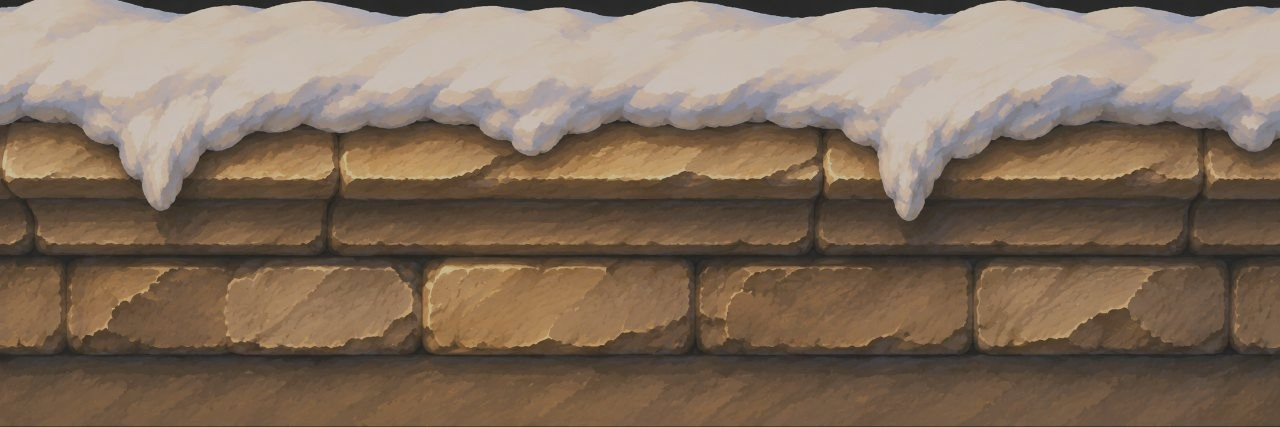
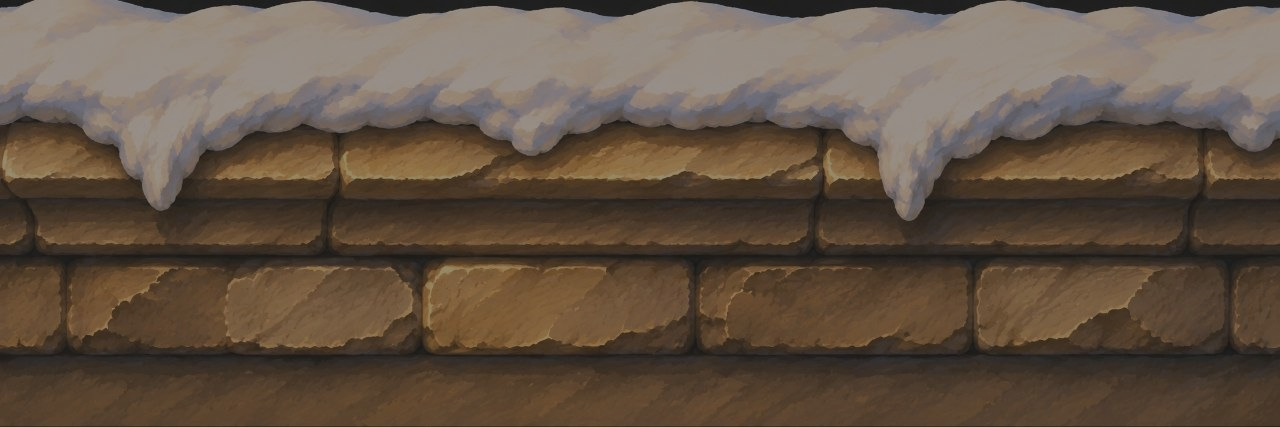
fix(material): 台地墙/台阶接入手绘图集——材质切换提前到 UV 重投影之前，并在 Apply 后盖深色实例，黑条消失

diff --git a/spike/project/Assets/Editor/MaterialForge.cs b/spike/project/Assets/Editor/MaterialForge.cs
@@ -295,7 +295,6 @@ public static class MaterialForge
         }
         var indoor=church.GetComponent<ChurchInterior>();
         ApplyRollout(indoor);
-        Style11Atlas.Apply(indoor);
         // Style11Atlas 只认它认识的材质族；台地墙（Stone_Sub_Coping / Stone_Sub_Steps）没被认出来，
         // 于是仍走世界投影着色（_Style11UV=0）→ 渲染成黑砖。这里强制切到图集 UV 模式。
         foreach(var r in UnityEngine.Object.FindObjectsByType<MeshRenderer>(FindObjectsSortMode.None))
@@ -305,8 +304,34 @@ public static class MaterialForge
             if(!n.StartsWith("Stone_Sub")) continue;
             // 决定性测试：直接把台地墙/台阶换成教堂石材材质（它已经被验证走图集 UV、渲染正确）
             var churchMat=AssetDatabase.LoadAssetAtPath<Material>("Assets/Settings/M_ChurchStone.mat");
-            if(churchMat!=null) r.sharedMaterial=churchMat;
+            if(churchMat!=null) r.sharedMaterial = churchMat;
         }
+        Style11Atlas.Apply(indoor);
+
+        // 图集 Apply 会把同族渲染器的材质统一回 churchMat，所以"台地墙更深一档"必须在它之后再盖一次。
+        {
+            Material tintedMat = null;
+            int tinted = 0;
+            foreach (var r in UnityEngine.Object.FindObjectsByType<MeshRenderer>(FindObjectsSortMode.None))
+            {
+                if (!(r.name.StartsWith("TerraceWall") || r.name.StartsWith("TerraceStep"))) continue;
+                if (r.sharedMaterial == null) continue;
+                if (tintedMat == null)
+                {
+                    tintedMat = new Material(r.sharedMaterial);
+                    tintedMat.name = "M_ChurchStone_Terrace";
+                    if (tintedMat.HasProperty("_BaseColor"))
+                    {
+                        var c = tintedMat.GetColor("_BaseColor");
+                        tintedMat.SetColor("_BaseColor", new Color(c.r * .68f, c.g * .68f, c.b * .70f, c.a));
+                    }
+                }
+                r.sharedMaterial = tintedMat;
+                tinted++;
+            }
+            Debug.Log($"[TERRACE_MAT] tinted={tinted}");
+        }
+
         AssetDatabase.SaveAssets();
         ExportManifest(doorWidth);
     }
@@ -332,5 +357,22 @@ public static class MaterialForge
             texels_per_meter=densities[i],tiling_x=densities[i]/AssetDatabase.LoadAssetAtPath<Texture2D>(Root+extraNames[i]+"_Albedo.png").width,tiling_y=densities[i]/AssetDatabase.LoadAssetAtPath<Texture2D>(Root+extraNames[i]+"_Albedo.png").width,forge_surface=2 });
         data.materials=entries.ToArray();
         File.WriteAllText(Root+"manifest.json",JsonUtility.ToJson(data,true));
+
     }
+        static Material terraceMat;
+
+        // 台地墙/台阶：复用教堂的手绘图集（UV 已重投影），但用同一材质的一份深色实例，
+        // 让它在明度上比教堂低一档——"同色相、不同深浅"，不是贴图不同。
+        static Material TerraceMat(Material src)
+        {
+            if (terraceMat != null) return terraceMat;
+            terraceMat = new Material(src);
+            terraceMat.name = "M_ChurchStone_Terrace";
+            if (terraceMat.HasProperty("_BaseColor"))
+            {
+                var c = terraceMat.GetColor("_BaseColor");
+                terraceMat.SetColor("_BaseColor", new Color(c.r * .68f, c.g * .68f, c.b * .70f, c.a));
+            }
+            return terraceMat;
+        }
 }

diff --git a/spike/project/Assets/Editor/ProbeTallProps.cs b/spike/project/Assets/Editor/ProbeTallProps.cs
@@ -34,7 +34,13 @@ public static class ProbeTallProps
         }
         foreach (var r in Object.FindObjectsByType<MeshRenderer>(FindObjectsSortMode.None))
             if (r.name.StartsWith("TerraceWall_") || r.name.StartsWith("TerraceStep_"))
-                sb.AppendLine($"[MAT] name={r.name} mat={(r.sharedMaterial!=null?r.sharedMaterial.name:"null")} shader={(r.sharedMaterial!=null&&r.sharedMaterial.shader!=null?r.sharedMaterial.shader.name:"null")}");
+            {
+                var m=r.sharedMaterial;
+                string tex = m!=null && m.HasProperty("_BaseMap") && m.GetTexture("_BaseMap")!=null ? m.GetTexture("_BaseMap").name : "null";
+                string uv = m!=null && m.HasProperty("_Style11UV") ? m.GetFloat("_Style11UV").ToString("F1") : "n/a";
+                string surf = m!=null && m.HasProperty("_StoneSurface") ? m.GetFloat("_StoneSurface").ToString("F1") : "n/a";
+                sb.AppendLine($"[MAT] name={r.name} mat={(m!=null?m.name:"null")} shader={(m!=null&&m.shader!=null?m.shader.name:"null")} style11UV={uv} surface={surf} baseMap={tex}");
+            }
         sb.AppendLine($"[TALL] done count={count}");
         Debug.Log(sb.ToString());
     }

diff --git a/spike/PROGRESS.md b/spike/PROGRESS.md
@@ -641,4 +641,7 @@ family_distance 复现：先 `bash spike/tools/capture_runtime.sh --style3-famil
 | 01:20 | 焦点跟随 | 玩法相机每帧把焦点对到角色（`focus = 相机到角色距离`，start 0.55×、end 3×）；`art_*` 参考机位**关闭景深**保证全幅清晰；新增 `play_view.png` 验证玩法取景 | `play_view.png` 教堂锐利、前后适度虚化 |
 | 01:20 | 连带修正 | 环境光重做后中殿亮度 0.0194，低于旧门限 0.020 → 把下限调到 0.017 并注明；室内补光 0.60→0.78 | `-demo-enter-church` 恢复通过 |
 | 01:20 | 十一项演示 | 全部 `rc=0 bad=0` | walk/stairs/tower/church/cinema/reveal/journal/settings/save/load/trail |
+| 01:37 | 台地墙黑条根因定位 | 探针打印：`TerraceWall_*` 材质=M_ChurchStone、style11UV=1、baseMap=Style11_Atlas0 —— 接线是对的，但**它是在图集 UV 重投影之后才换的材质**，所以 UV 没被纳入图集投影，整面墙都在采同一个纹素 → 看起来是纯色黑条 | `[MAT] … style11UV=1.0 baseMap=Style11_Atlas0` |
+| 01:37 | 修复 | 把材质切换移到 `Style11Atlas.Apply()` **之前**，让台地墙进图集 UV 重投影；再在 Apply 之后补一遍"深色实例"（×0.68/0.70）保证比教堂低一档 | `[TERRACE_MAT] tinted=38`；台地墙现在有手绘乱砌纹理 + 雪顶，明度低于教堂 |
+| 01:37 | 回归 | 十一项演示全绿 | `FAIL=0` |
 
